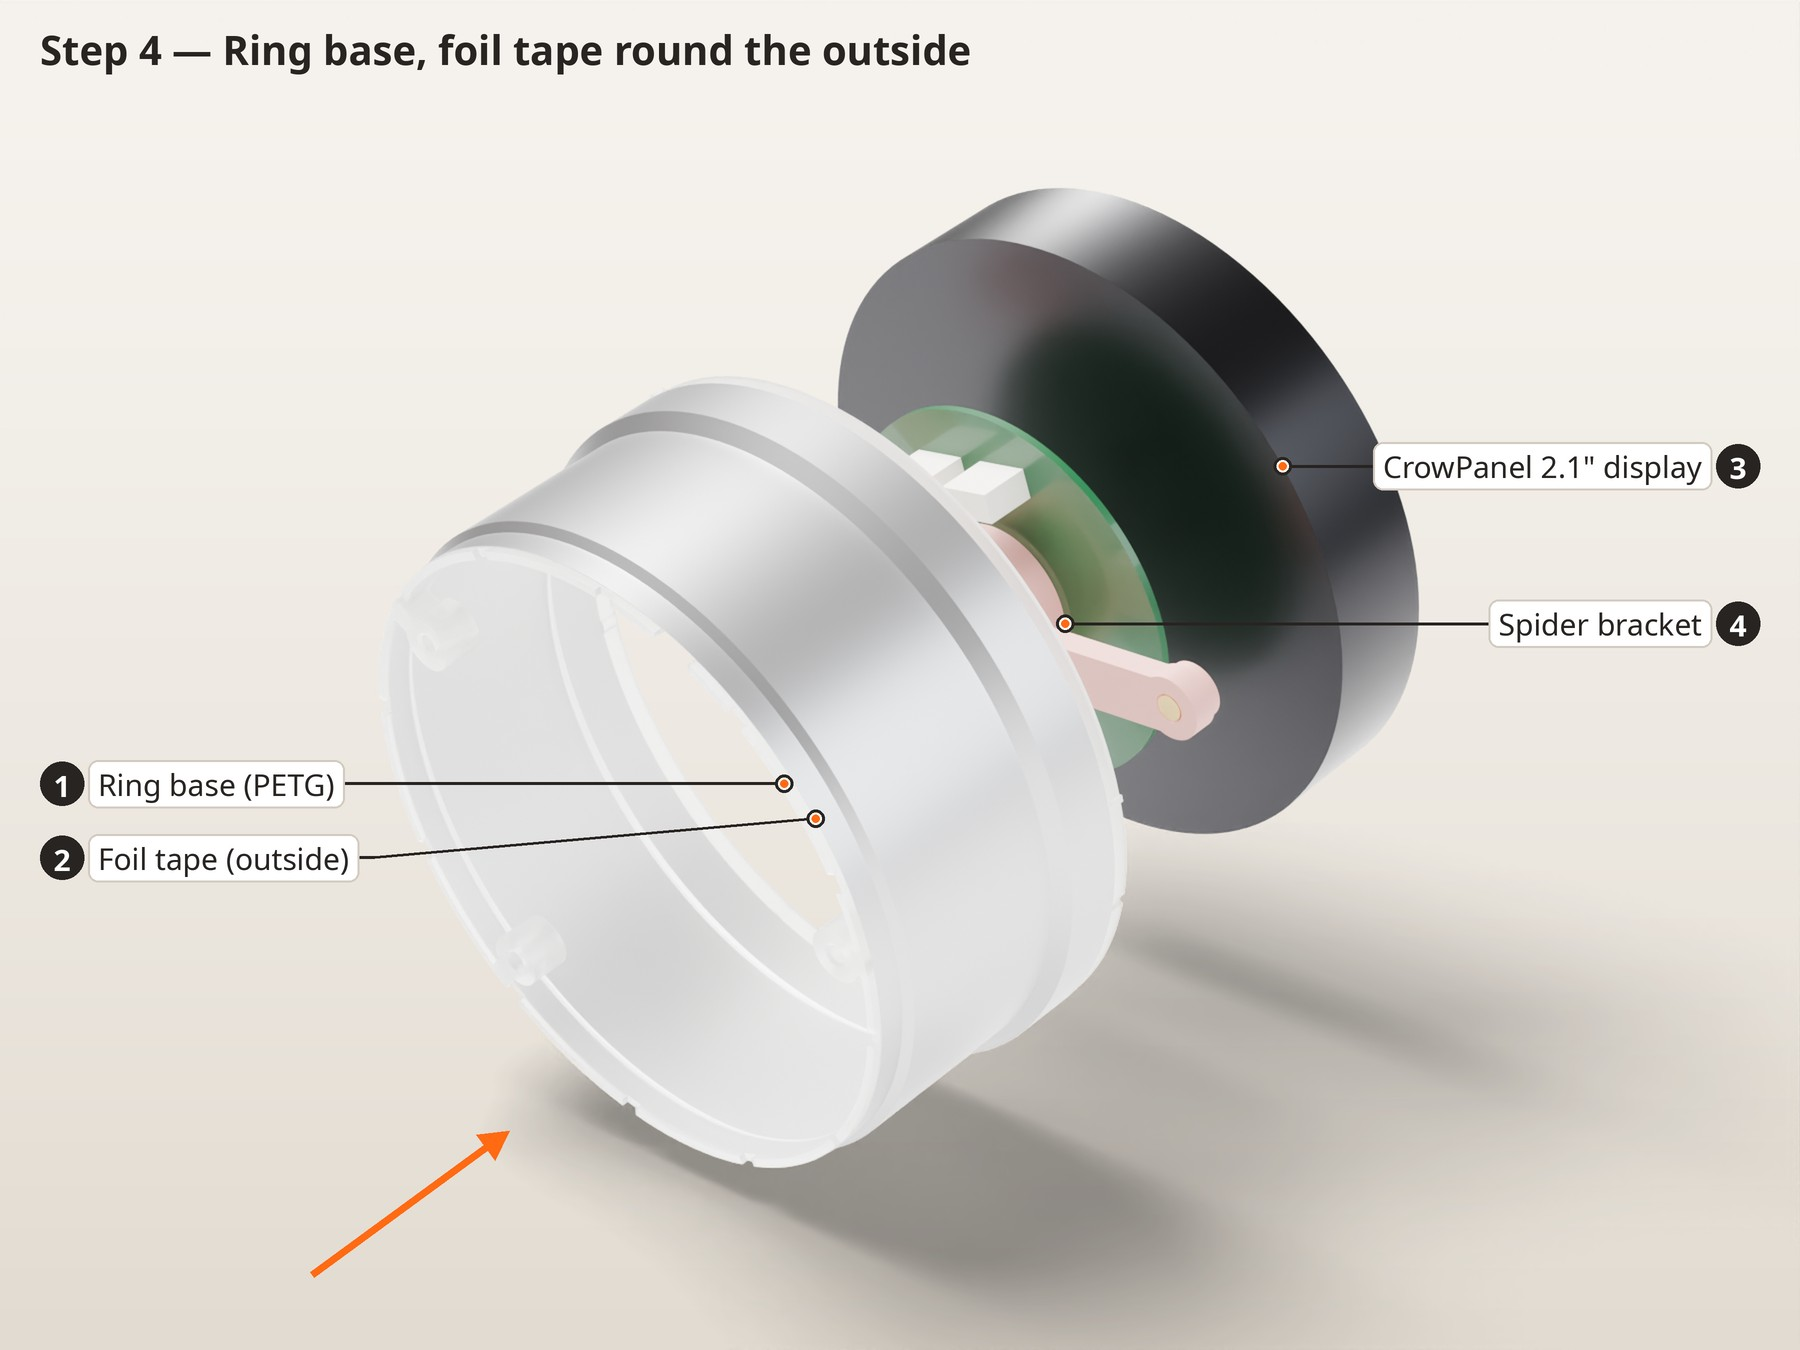
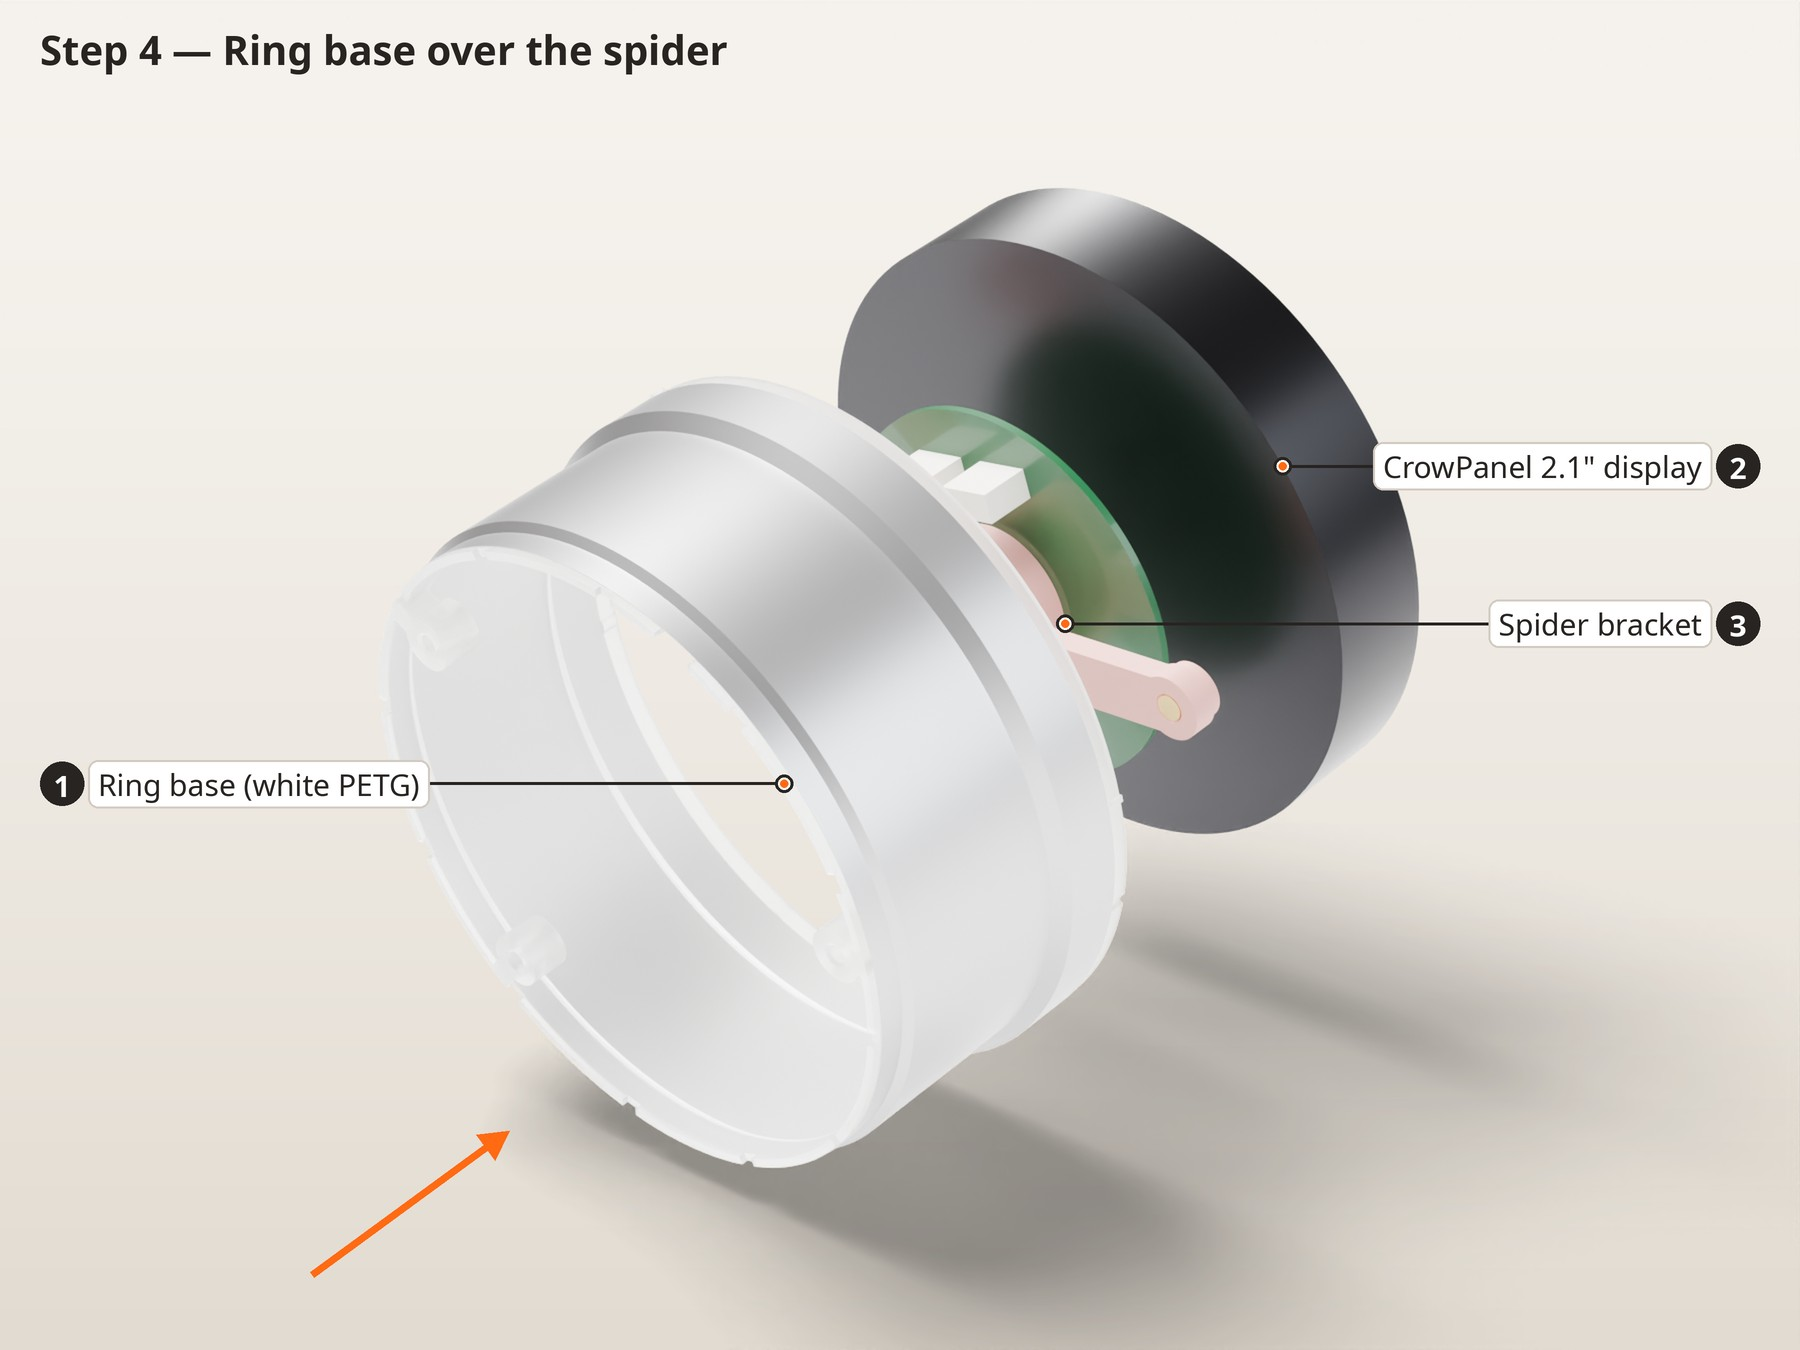
Assembly guide: re-render without foil tape, white PETG ring
The step 4 and step 7 pictures still showed foil tape with "Foil tape"
callouts. The render scene drops the foil meshes, the ring base and the
ring shell's sleeve render as white PETG with the natural band on top,
and all assembly images are re-rendered (they also pick up the
overlapping cap and the moved speaker).

Changed region(s): [[0.0, 0.56, 0.2489, 0.6533], [0.2178, 0.0311, 0.56, 0.0622], [0.4356, 0.5911, 0.4667, 0.6222]]

diff --git a/docs/assembly/index.html b/docs/assembly/index.html
@@ -136,19 +136,19 @@ footer{margin-top:56px; padding-top:20px; border-top:1px solid var(--rule); colo
 </section><section class="step" id="step-4">
   <header><span class="num">04</span><h2>Light ring, part 1 (ring base)</h2></header>
   <figure><img src="img/step_03.jpg" alt="Step 4: Light ring, part 1 (ring base)" loading="lazy" width="1800" height="1350"></figure>
-  <div class="body"><div><h3 class="eyebrow">In this picture</h3><ol class="legend"><li><span class="b">1</span>Ring base (PETG)</li><li><span class="b">2</span>Foil tape (outside)</li><li><span class="b">3</span>CrowPanel 2.1" display</li><li><span class="b">4</span>Spider bracket</li></ol></div>
+  <div class="body"><div><h3 class="eyebrow">In this picture</h3><ol class="legend"><li><span class="b">1</span>Ring base (white PETG)</li><li><span class="b">2</span>CrowPanel 2.1" display</li><li><span class="b">3</span>Spider bracket</li></ol></div>
     <div><ol class="do"><li>Plug the CrowPanel lead (the pigtail already soldered to the reSpeaker header) into the panel's power port.</li><li>Slide the ring base over the spider <b>from behind</b>, until its three spacers sit under the spider's insert pads. There is no cable notch: the lead stays inside the ring, between the spider arms.</li></ol><div class="check"><strong>Check before moving on</strong>The ring base sits square on the spider pads.</div></div>
   </div>
 </section><section class="step" id="step-5">
   <header><span class="num">05</span><h2>reSpeaker and carrier</h2></header>
   <figure><img src="img/step_04.jpg" alt="Step 5: reSpeaker and carrier" loading="lazy" width="1800" height="1350"></figure><figure><img src="img/step_05.jpg" alt="Step 5: reSpeaker and carrier" loading="lazy" width="1800" height="1350"></figure>
-  <div class="body"><div><h3 class="eyebrow">In this picture</h3><ol class="legend"><li><span class="b">1</span>reSpeaker XVF3800</li><li><span class="b">2</span>Ring base (PETG)</li><li><span class="b">3</span>Spider bracket</li></ol></div><div><h3 class="eyebrow">In this picture</h3><ol class="legend"><li><span class="b">1</span>Carrier</li><li><span class="b">2</span>3x M2x20 SHCS</li><li><span class="b">3</span>reSpeaker XVF3800</li></ol></div>
+  <div class="body"><div><h3 class="eyebrow">In this picture</h3><ol class="legend"><li><span class="b">1</span>reSpeaker XVF3800</li><li><span class="b">2</span>Ring base (white PETG)</li><li><span class="b">3</span>Spider bracket</li></ol></div><div><h3 class="eyebrow">In this picture</h3><ol class="legend"><li><span class="b">1</span>Carrier</li><li><span class="b">2</span>3x M2x20 SHCS</li><li><span class="b">3</span>reSpeaker XVF3800</li></ol></div>
     <div><ol class="do"><li>Lay the reSpeaker on the ring base's spacers, LED side toward the display, mute button (marked A) at 12 o'clock. The ring base's foot surrounds the LED ring; the CrowPanel lead stays inside it, flat in the gap between the board and the spider.</li><li>Feed the speaker lead and the reSpeaker power lead through the carrier's centre hole, the only wire opening. Set the carrier behind the board.</li><li>Fit 3 × M2 × 20 from the back of the carrier, through the board and the spacers, into the spider. <b>Snug only</b>: the screws pull the spider's inserts toward their mouths.</li></ol><div class="check"><strong>Check before moving on</strong>The board doesn't rock and no wire is pinched.</div></div>
   </div>
 </section><section class="step" id="step-6">
   <header><span class="num">06</span><h2>Light ring, part 2 (ring shell)</h2></header>
   <figure><img src="img/step_06.jpg" alt="Step 6: Light ring, part 2 (ring shell)" loading="lazy" width="1800" height="1350"></figure>
-  <div class="body"><div><h3 class="eyebrow">In this picture</h3><ol class="legend"><li><span class="b">1</span>Foil tape (inside)</li><li><span class="b">2</span>Ring shell (PETG)</li><li><span class="b">3</span>Ring base (PETG)</li></ol></div>
+  <div class="body"><div><h3 class="eyebrow">In this picture</h3><ol class="legend"><li><span class="b">1</span>Ring shell (white + natural PETG)</li><li><span class="b">2</span>Ring base (white PETG)</li></ol></div>
     <div><ol class="do"><li>Press the ring shell on over the knob, with its two tabs in the ring base's slots. The skirt under its cap slides down round the top of the ring base, the crush ribs hold it, and the cap now covers the ring base's top edge, so no gap shows at the face.</li></ol><div class="check"><strong>Check before moving on</strong>Power the boards on the bench and set the LED ring white. The whole ring should glow evenly, with no bright gap round the knob and no LED visible.</div></div>
   </div>
 </section><section class="step" id="step-7">

diff --git a/cad/blender/export_scene.py b/cad/blender/export_scene.py
@@ -24,7 +24,7 @@ MESH = HERE / "meshes"
 MAT = {
     "front_shell": "pla", "rear_shell": "pla", "back_plate": "pla", "mute_plunger": "pla",
     "carrier": "pla", "spider": "pla",
-    "ring_base": "petg_natural", "ring_shell": "petg_natural",
+    "ring_base": "petg_white", "ring_shell": "petg_white", "ring_band": "petg_natural",
     "cp_knob": "alu_dark", "cp_glass": "display", "cp_pcb": "pcb_green", "cp_conn": "nylon_white",
     "rs_pcb": "pcb_black", "rs_leds": "led", "rs_xiao": "pcb_blue",
     "speaker": "plastic_black",
@@ -33,7 +33,7 @@ MAT = {
 LABEL = {
     "front_shell": "Front shell", "rear_shell": "Rear shell", "back_plate": "Back plate",
     "mute_plunger": "Mute button", "carrier": "Carrier", "spider": "Spider bracket",
-    "ring_base": "Ring base (PETG)", "ring_shell": "Ring shell (PETG)",
+    "ring_base": "Ring base (white PETG)", "ring_shell": "Ring shell (white + natural PETG)", "ring_band": "Ring shell, natural PETG band",
     "cp_knob": "CrowPanel 2.1\" display", "rs_pcb": "reSpeaker XVF3800", "speaker": "Speaker 4428 3 W",
     "foot_pad_front": "TPU grip pad (small)", "foot_pad_rear": "TPU grip pad (large)",
     "ballast_fill": "Ballast: steel shot in slow epoxy",
@@ -61,18 +61,6 @@ def centroid(name):
     return m.bounds.mean(0)
 
 
-def foil_meshes():
-    """Aluminium foil tape: round the ring base's outer face, and inside the ring shell's sleeve."""
-    z1, z2, z3, z4 = RING_IW_Z
-    R0, R1, R2, T, zt = RING_IW_R0, RING_IW_R1, RING_IW_R2, RING_IW_T, RING_TOP_Z
-    prof = [(R0 + T, 1.0), (R0 + T, z1), (R1 + T, z2), (R1 + T, z3), (R2 + T, z4), (R2 + T, zt - 2.0)]
-    base = revolve_rz([(r + 0.02, z) for r, z in prof] + [(r + 0.14, z) for r, z in reversed(prof)])
-    zs = zt - RING_CAP_T - 4.0
-    shell = revolve_rz([(RING_SLV_RI - 0.14, 0.0), (RING_SLV_RI - 0.02, 0.0), (RING_SLV_RI - 0.02, zs),
-                        (RING_SLV_RI - 0.14, zs)])
-    return R.tess(base), R.tess(shell)
-
-
 def usb_screws():
     """2 x M2 x 10 from the board's back (rim side) through it into the pads' inserts."""
     _, y_back = usb_pcb_y()
@@ -95,7 +83,9 @@ def main():
     g = RS.tess_all()
     for n, (v, f) in g.items():
         write(n, v, f)
-    fb, fs = foil_meshes()
+    band, white = ring_shell_colours()           # the ring shell prints in two PETG colours
+    write("ring_shell", *R.tess(white))
+    write("ring_band", *R.tess(band))
 
     # fastener / small-part groups (each one mesh + material + label)
     hw = {
@@ -109,8 +99,6 @@ def main():
         "foam_mic":    (RS.hw_mic_foam(),         "foam",    "4x foam mic gasket"),
         "foam_spk":    (RS.hw_spk_foam(),         "foam",    "Foam ring"),
         "usb":         (RS.hw_usb(),              "pcb_blue", "USB-C breakout (5.1k)"),
-        "foil_base":   ([fb],                     "alu",     "Foil tape (outside)"),
-        "foil_shell":  ([fs],                     "alu",     "Foil tape (inside)"),
     }
     for k, (meshes, mat, lab) in hw.items():
         v, f = merged(meshes)
@@ -121,8 +109,8 @@ def main():
     CP = ["cp_knob", "cp_glass", "cp_pcb", "cp_conn"]
     RSB = ["rs_pcb", "rs_leds", "rs_xiao"]
     head = CP + ["spider", "scr_cp", "ins_spider"]
-    core = head + ["ring_base", "foil_base"] + RSB + ["carrier", "scr_clamp"]
-    stack = core + ["ring_shell", "foil_shell"]
+    core = head + ["ring_base"] + RSB + ["carrier", "scr_clamp"]
+    stack = core + ["ring_shell", "ring_band"]
     shell_r = ["rear_shell", "mute_plunger", "ballast_fill", "foot_pad_rear"]
     shell_f = ["front_shell", "foot_pad_front", "foam_mic"]
     plate = ["back_plate", "ins_back", "usb", "scr_usb", "speaker", "foam_spk", "tpu_wash", "scr_spk"]
@@ -170,24 +158,24 @@ def main():
             CP, [("spider", -22), ("ins_spider", -22), ("scr_cp", -40)]),
              callouts=["cp_knob", "spider", "ins_spider", "scr_cp"],
              arrows=[[(0, 0, -44), (0, 0, -26)]]),
-        # 4. ring base (foil outside) from behind
-        dict(id="step_03", title="Ring base, foil tape round the outside", view=(135, 20), items=items(
-            head, [("ring_base", -48), ("foil_base", -48)]),
-             callouts=["ring_base", "foil_base", "spider", "cp_knob"],
+        # 4. ring base from behind
+        dict(id="step_03", title="Ring base over the spider", view=(135, 20), items=items(
+            head, [("ring_base", -48)]),
+             callouts=["ring_base", "spider", "cp_knob"],
              arrows=[[(*polar(46, 300), -86), (*polar(46, 300), -56)]]),
         # 5. reSpeaker, then carrier + clamp screws
         dict(id="step_04", title="reSpeaker onto the ring base", view=(118, 24), items=items(
-            head + ["ring_base", "foil_base"], [(n, -36) for n in RSB]),
+            head + ["ring_base"], [(n, -36) for n in RSB]),
              callouts=["rs_pcb", "ring_base", "spider"],
              arrows=[[(x, y, -50), (x, y, -38)] for x, y in rh]),
         dict(id="step_05", title="Carrier and clamp screws", view=REAR, items=items(
-            head + ["ring_base", "foil_base"] + RSB, [("carrier", -26), ("scr_clamp", -48)]),
+            head + ["ring_base"] + RSB, [("carrier", -26), ("scr_clamp", -48)]),
              callouts=["carrier", "scr_clamp", "rs_pcb"],
              arrows=[[(x, y, -56), (x, y, -38)] for x, y in rh]),
         # 6. ring shell from the front
-        dict(id="step_06", title="Ring shell on over the knob (foil inside)", view=(-64, 22), items=items(
-            core, [("ring_shell", 34), ("foil_shell", 34)]),
-             callouts=["ring_shell", "foil_shell", "ring_base"],
+        dict(id="step_06", title="Ring shell on over the knob", view=(-64, 22), items=items(
+            core, [("ring_shell", 34), ("ring_band", 34)]),
+             callouts=["ring_shell", "ring_base"],
              arrows=[[(*polar(47, 230), 92), (*polar(47, 230), 72)]]),
         # 7. ballast + grip pads
         dict(id="step_07", title="Ballast in the pocket, grip pads on the base", view=(-50, 22), items=items(

diff --git a/cad/blender/render_scene.py b/cad/blender/render_scene.py
@@ -144,6 +144,9 @@ def materials(hero):
                           **{"Transmission Weight": 0.85, "IOR": 1.57, "Subsurface Weight": 0.15})
     add_bump(nt, b, "layers", 0.04, 0.314 / 0.2)
     M["petg_natural"] = m
+    m, nt, b = principled("petg_white", (0.88, 0.88, 0.86, 1), 0.42, **{"Subsurface Weight": 0.3})
+    add_bump(nt, b, "layers", 0.04, 0.314 / 0.2)
+    M["petg_white"] = m
     M["alu_dark"] = principled("alu_dark", (0.045, 0.045, 0.05, 1), 0.32, 1.0)[0]
     M["alu"] = principled("alu", (0.62, 0.62, 0.64, 1), 0.38, 1.0)[0]
     M["pcb_green"] = principled("pcb_green", hexlin("#1d5a37"), 0.32, **{"Coat Weight": 0.4})[0]

diff --git a/docs/assembly/ASSEMBLY.md b/docs/assembly/ASSEMBLY.md
@@ -76,7 +76,7 @@ In this picture: **1** Spider bracket, **2** 3x M3x12 SHCS, **3** CrowPanel 2.1"
 
 ![Step 4](img/step_03.jpg)
 
-In this picture: **1** Ring base (PETG), **2** Foil tape (outside), **3** CrowPanel 2.1" display, **4** Spider bracket
+In this picture: **1** Ring base (white PETG), **2** CrowPanel 2.1" display, **3** Spider bracket
 
 1. Plug the CrowPanel lead (the pigtail already soldered to the reSpeaker header) into the panel's power port.
 2. Slide the ring base over the spider **from behind**, until its three spacers sit under the spider's insert pads. There is no cable notch: the lead stays inside the ring, between the spider arms.
@@ -87,7 +87,7 @@ In this picture: **1** Ring base (PETG), **2** Foil tape (outside), **3** CrowPa
 
 ![Step 5](img/step_04.jpg)
 
-In this picture: **1** reSpeaker XVF3800, **2** Ring base (PETG), **3** Spider bracket
+In this picture: **1** reSpeaker XVF3800, **2** Ring base (white PETG), **3** Spider bracket
 
 ![Step 5](img/step_05.jpg)
 
@@ -103,7 +103,7 @@ In this picture: **1** Carrier, **2** 3x M2x20 SHCS, **3** reSpeaker XVF3800
 
 ![Step 6](img/step_06.jpg)
 
-In this picture: **1** Foil tape (inside), **2** Ring shell (PETG), **3** Ring base (PETG)
+In this picture: **1** Ring shell (white + natural PETG), **2** Ring base (white PETG)
 
 1. Press the ring shell on over the knob, with its two tabs in the ring base's slots. The skirt under its cap slides down round the top of the ring base, the crush ribs hold it, and the cap now covers the ring base's top edge, so no gap shows at the face.
 
